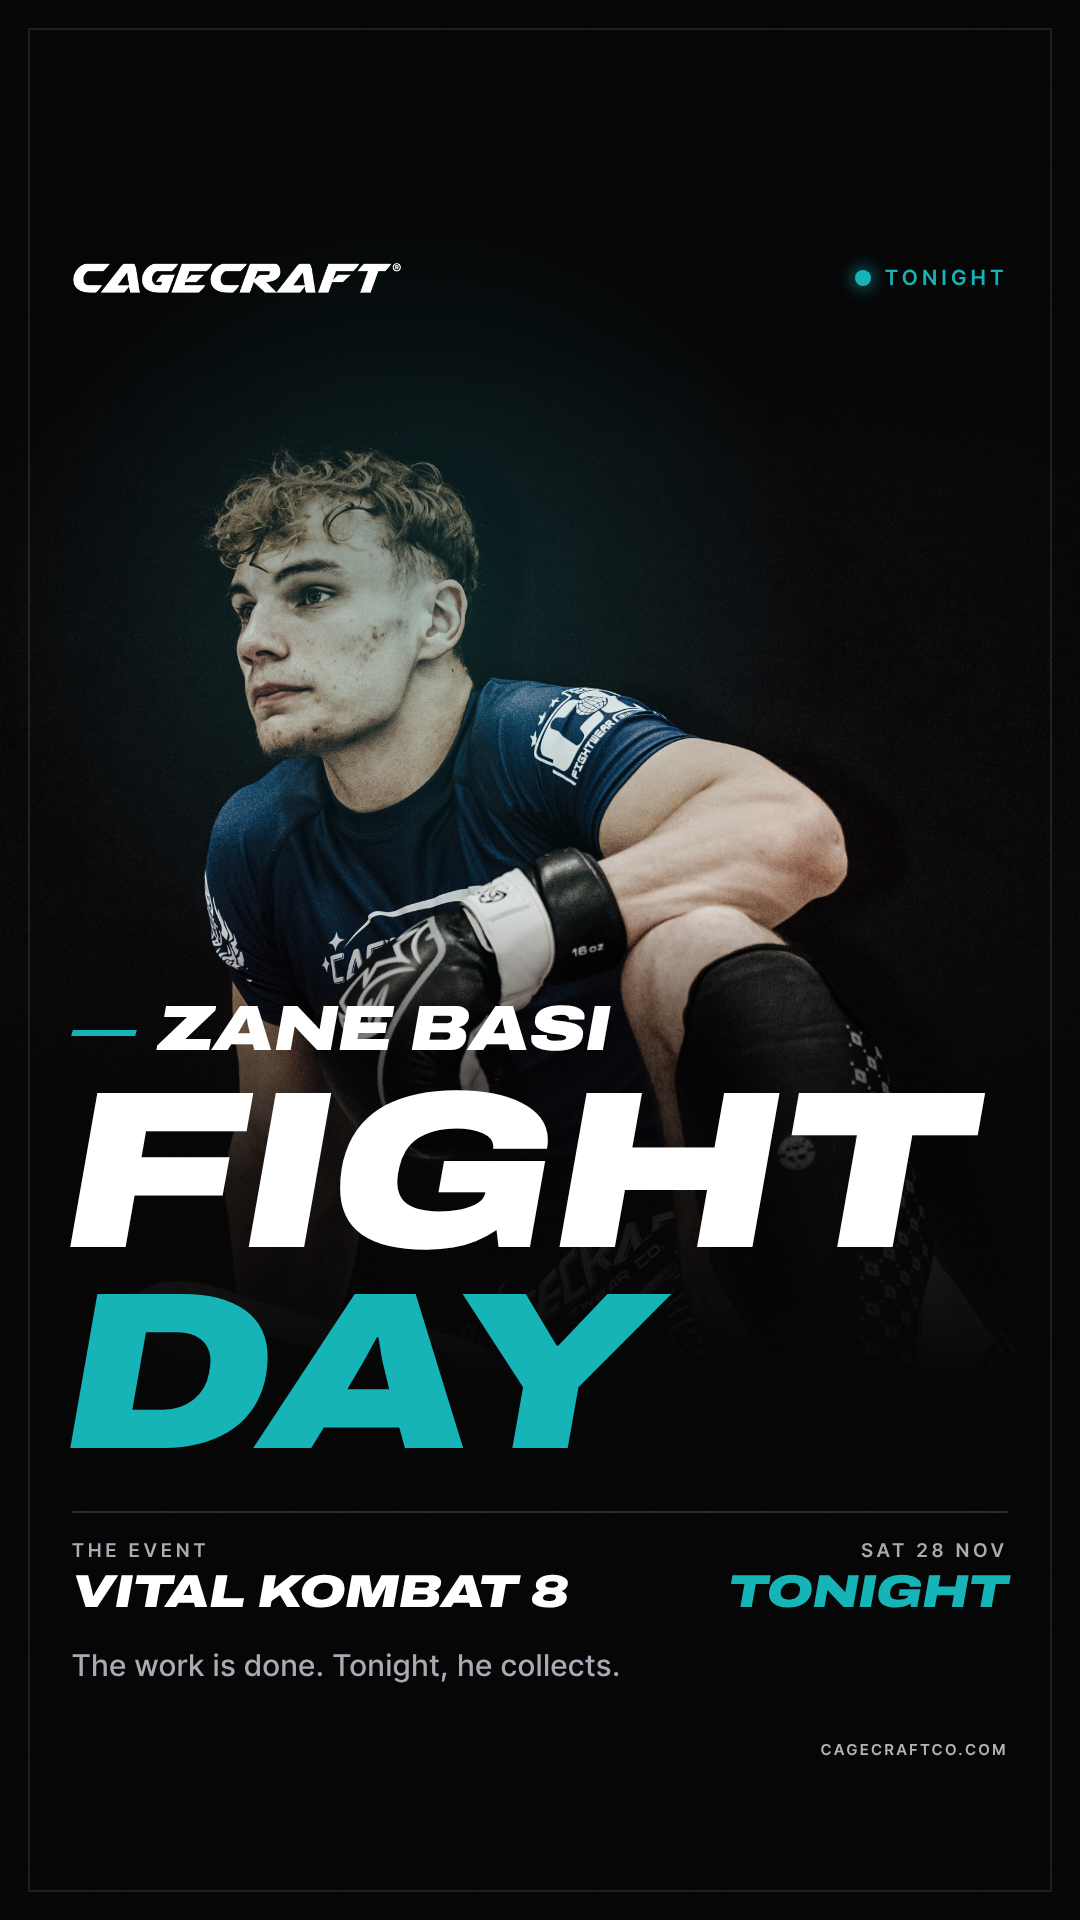
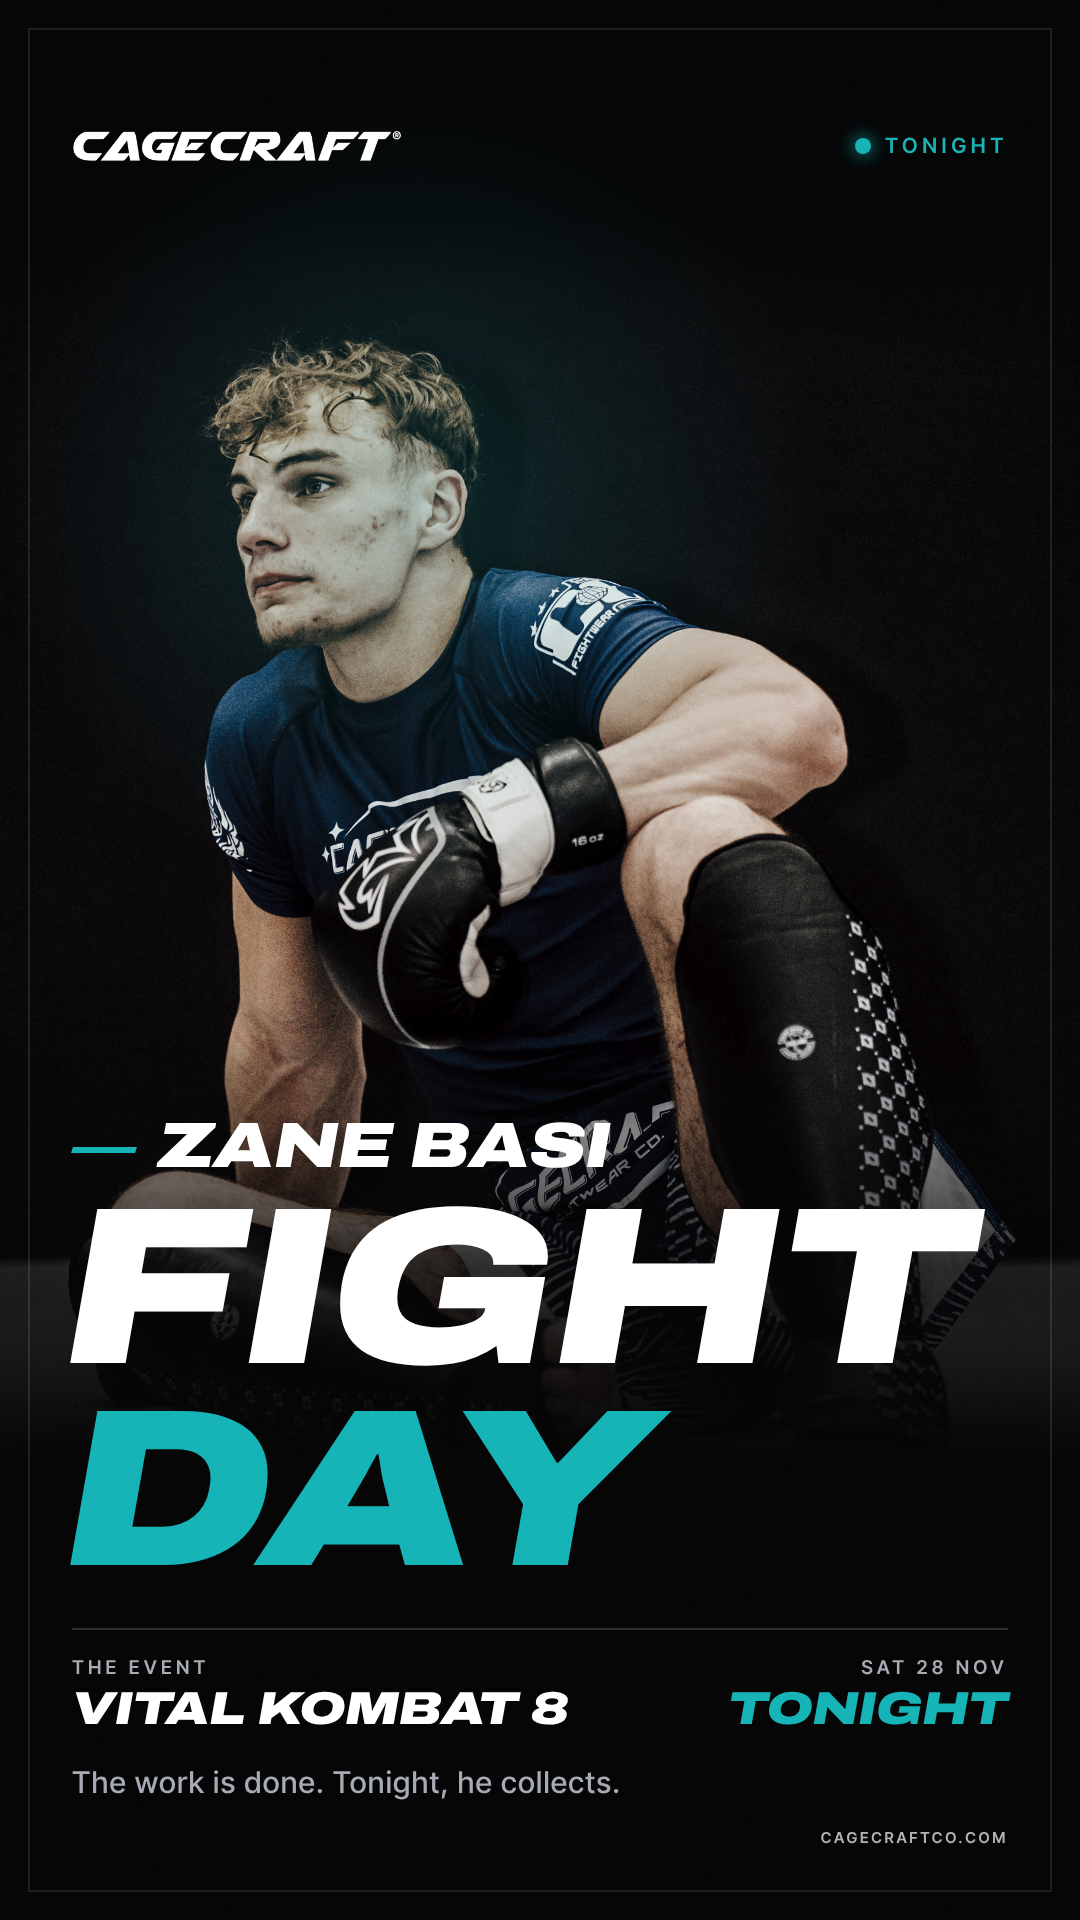
Zane Basi posters: drop photo credit; open up Fight Day story so more of Zane and the kit shows
Claude-Session: https://claude.ai/code/session_01DwmoEp6G8GKXf7Z5ZN9Fqi

diff --git a/cagecraft-posters/zane-basi-vk8/poster.html b/cagecraft-posters/zane-basi-vk8/poster.html
@@ -93,17 +93,18 @@ html, body { background: var(--bg); }
 .winner.post .tag { font-size: 26px; margin-top: 20px; }
 
 /* ---------- FIGHT DAY ---------- */
-.fightday .credit:not(.url) { display: none; } /* training photo, not Atta Pix */
 .fightday .photo { background-image: url("assets/BASI1.jpg"); filter: grayscale(.55) contrast(1.12) brightness(1.02); }
-.fightday.story .photo { width: 1280px; height: 1600px; left: -150px; top: 170px; }
+.fightday.story .photo { width: 1280px; height: 1600px; left: -150px; top: 60px; }
+.fightday.story .top { top: 130px; }
+.fightday.story .url { top: 1828px; }
 .fightday.post  .photo { width: 1160px; height: 1450px; left: -60px; top: -40px; }
 .fightday .shade { background:
-  radial-gradient(ellipse 55% 30% at 38% 32%, rgba(22,179,183,.18), transparent 70%),
-  linear-gradient(180deg, var(--bg) 0%, var(--bg) 17%, rgba(5,5,6,.35) 24%, rgba(5,5,6,0) 34%, rgba(5,5,6,0) 47%, rgba(5,5,6,.85) 61%, var(--bg) 72%); }
+  radial-gradient(ellipse 55% 30% at 38% 26%, rgba(22,179,183,.18), transparent 70%),
+  linear-gradient(180deg, var(--bg) 0%, var(--bg) 11.5%, rgba(5,5,6,.3) 15%, rgba(5,5,6,0) 19%, rgba(5,5,6,0) 54%, rgba(5,5,6,.8) 66%, var(--bg) 76%); }
 .fightday.post .shade { background:
   radial-gradient(ellipse 55% 32% at 40% 30%, rgba(22,179,183,.18), transparent 70%),
   linear-gradient(180deg, var(--bg) 0%, var(--bg) 8%, rgba(5,5,6,.3) 13%, rgba(5,5,6,0) 17%, rgba(5,5,6,0) 42%, rgba(5,5,6,.85) 58%, var(--bg) 70%); }
-.fightday.story .block { top: 1000px; }
+.fightday.story .block { top: auto; bottom: 120px; }
 .fightday.post  .block { top: 700px; }
 .fightday .name { font-size: 64px; }
 .fightday .head { font-size: 224px; margin: 14px 0 0 -8px; }
@@ -136,7 +137,6 @@ html, body { background: var(--bg); }
 
   <div class="block" id="block"></div>
 
-  <div class="credit label">Photo: Atta Pix</div>
   <div class="credit label url">cagecraftco.com</div>
 </div>
 
